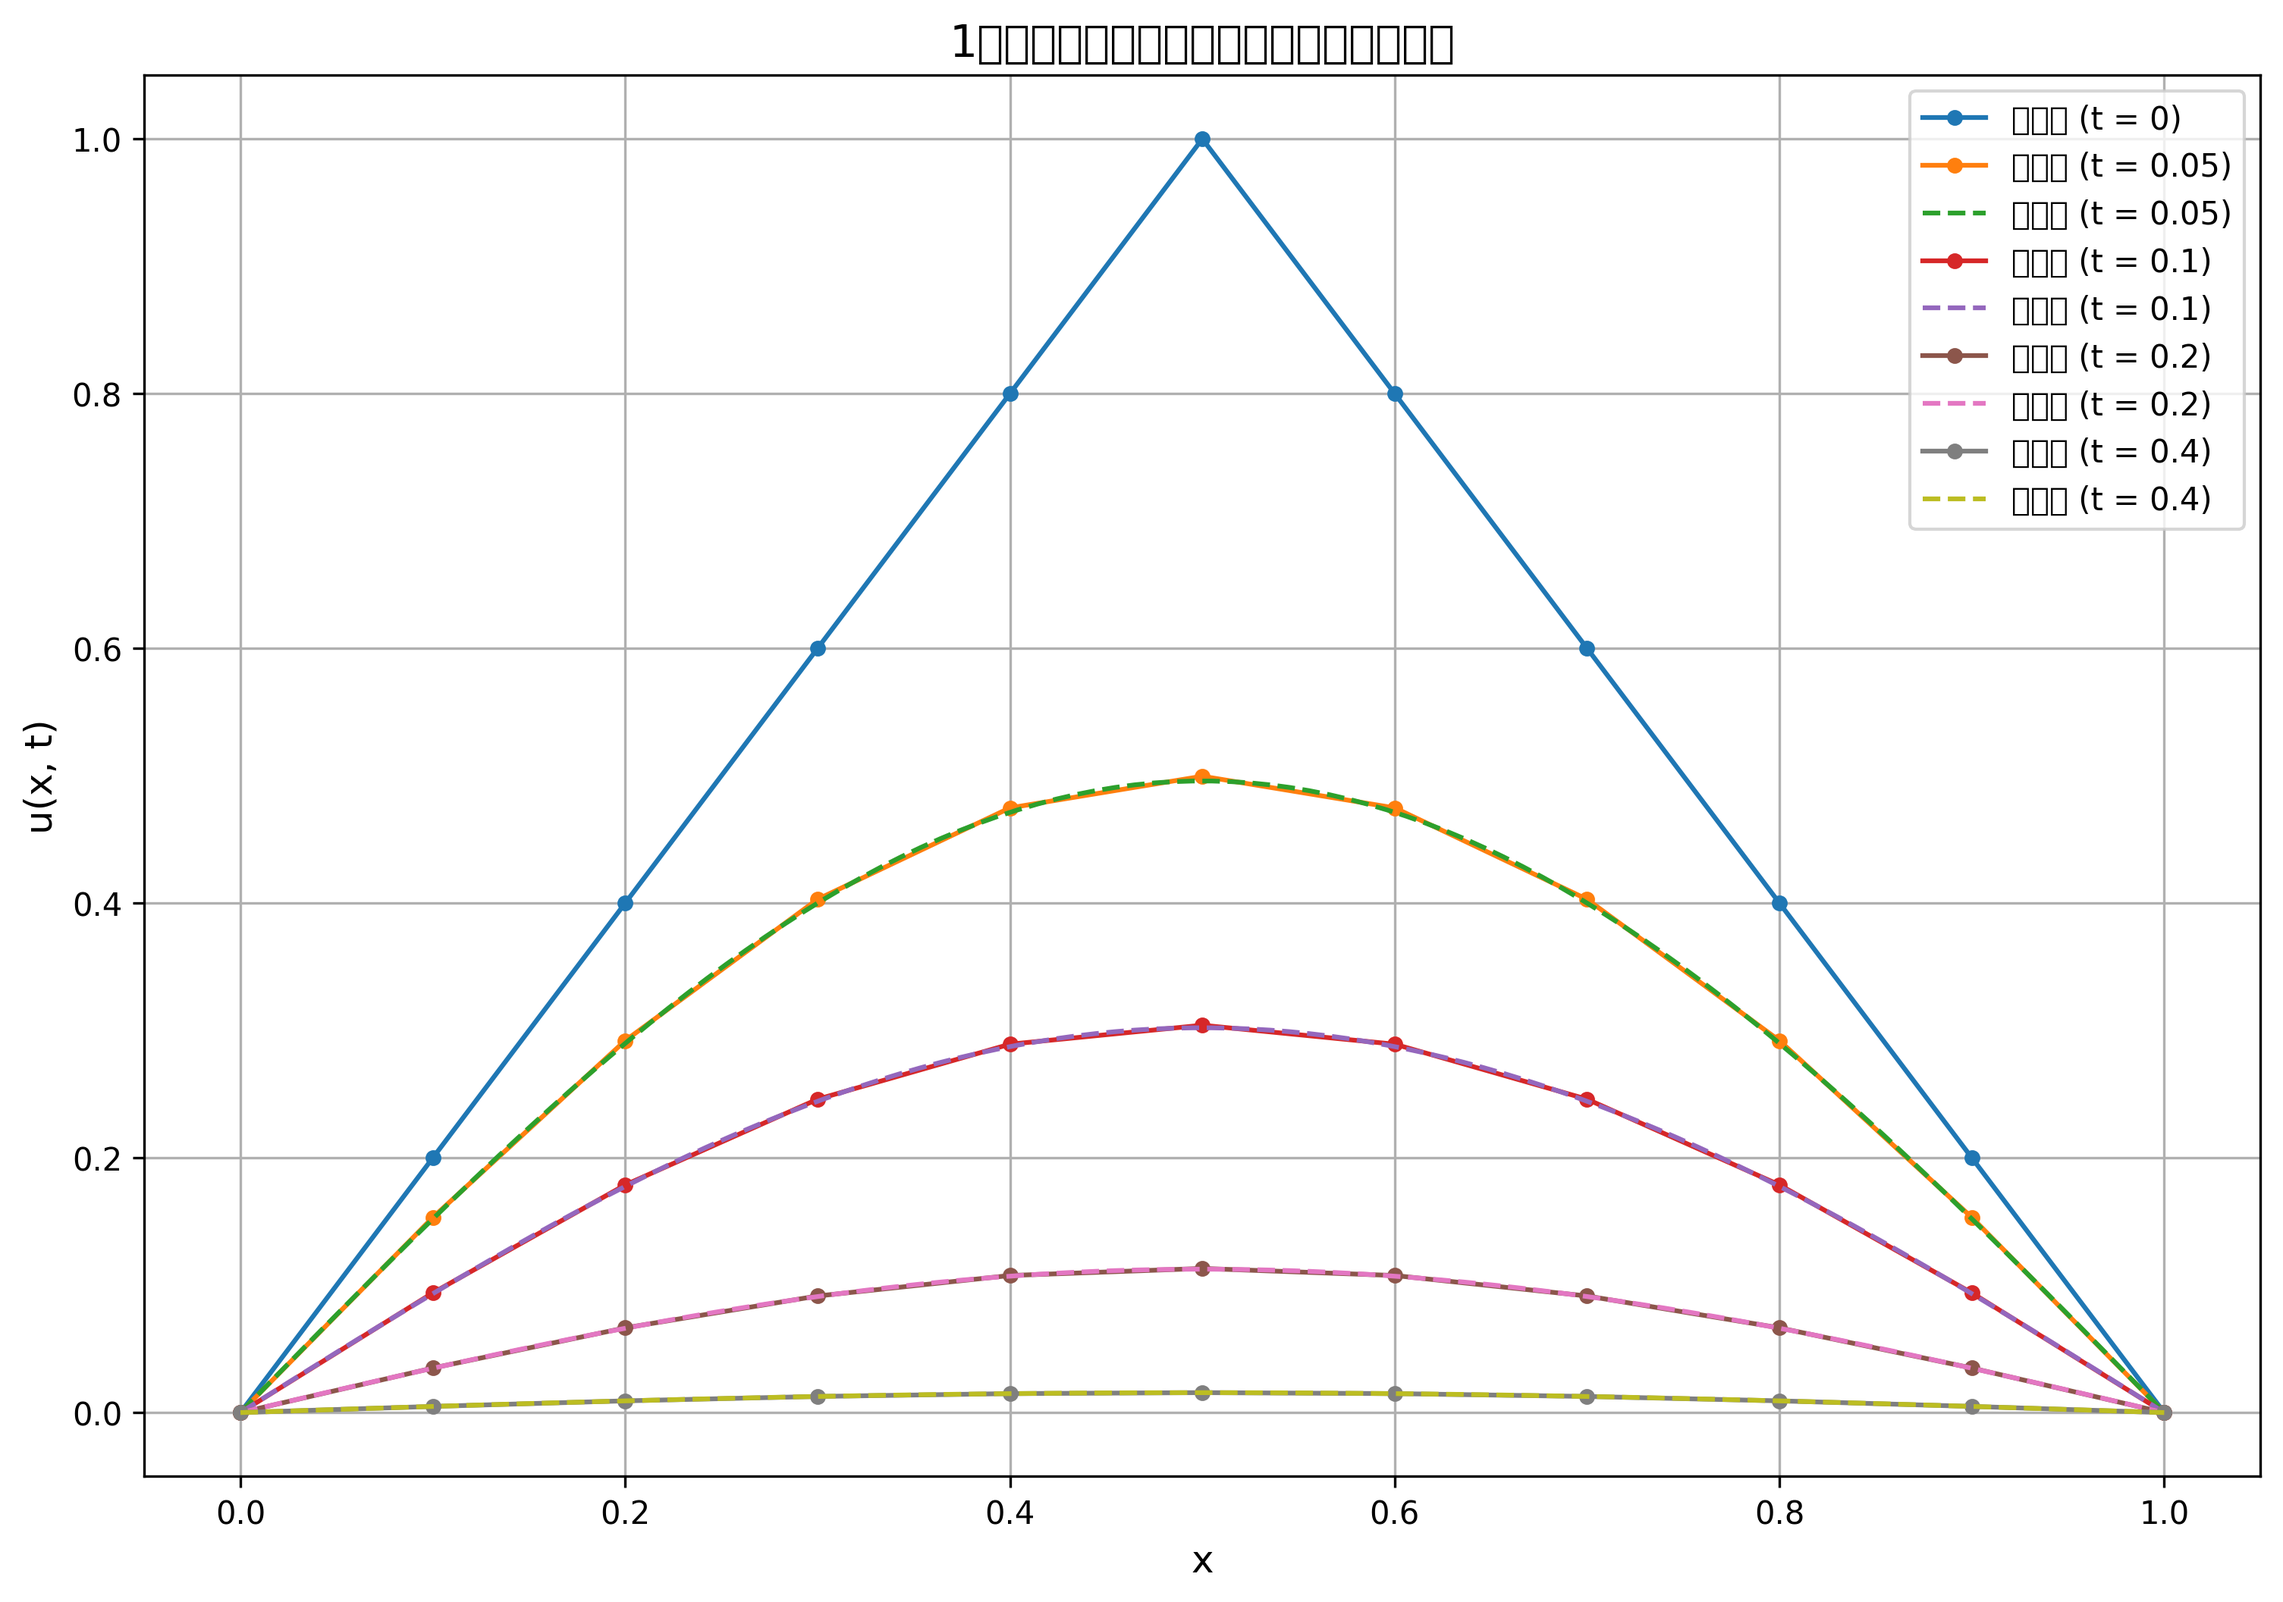
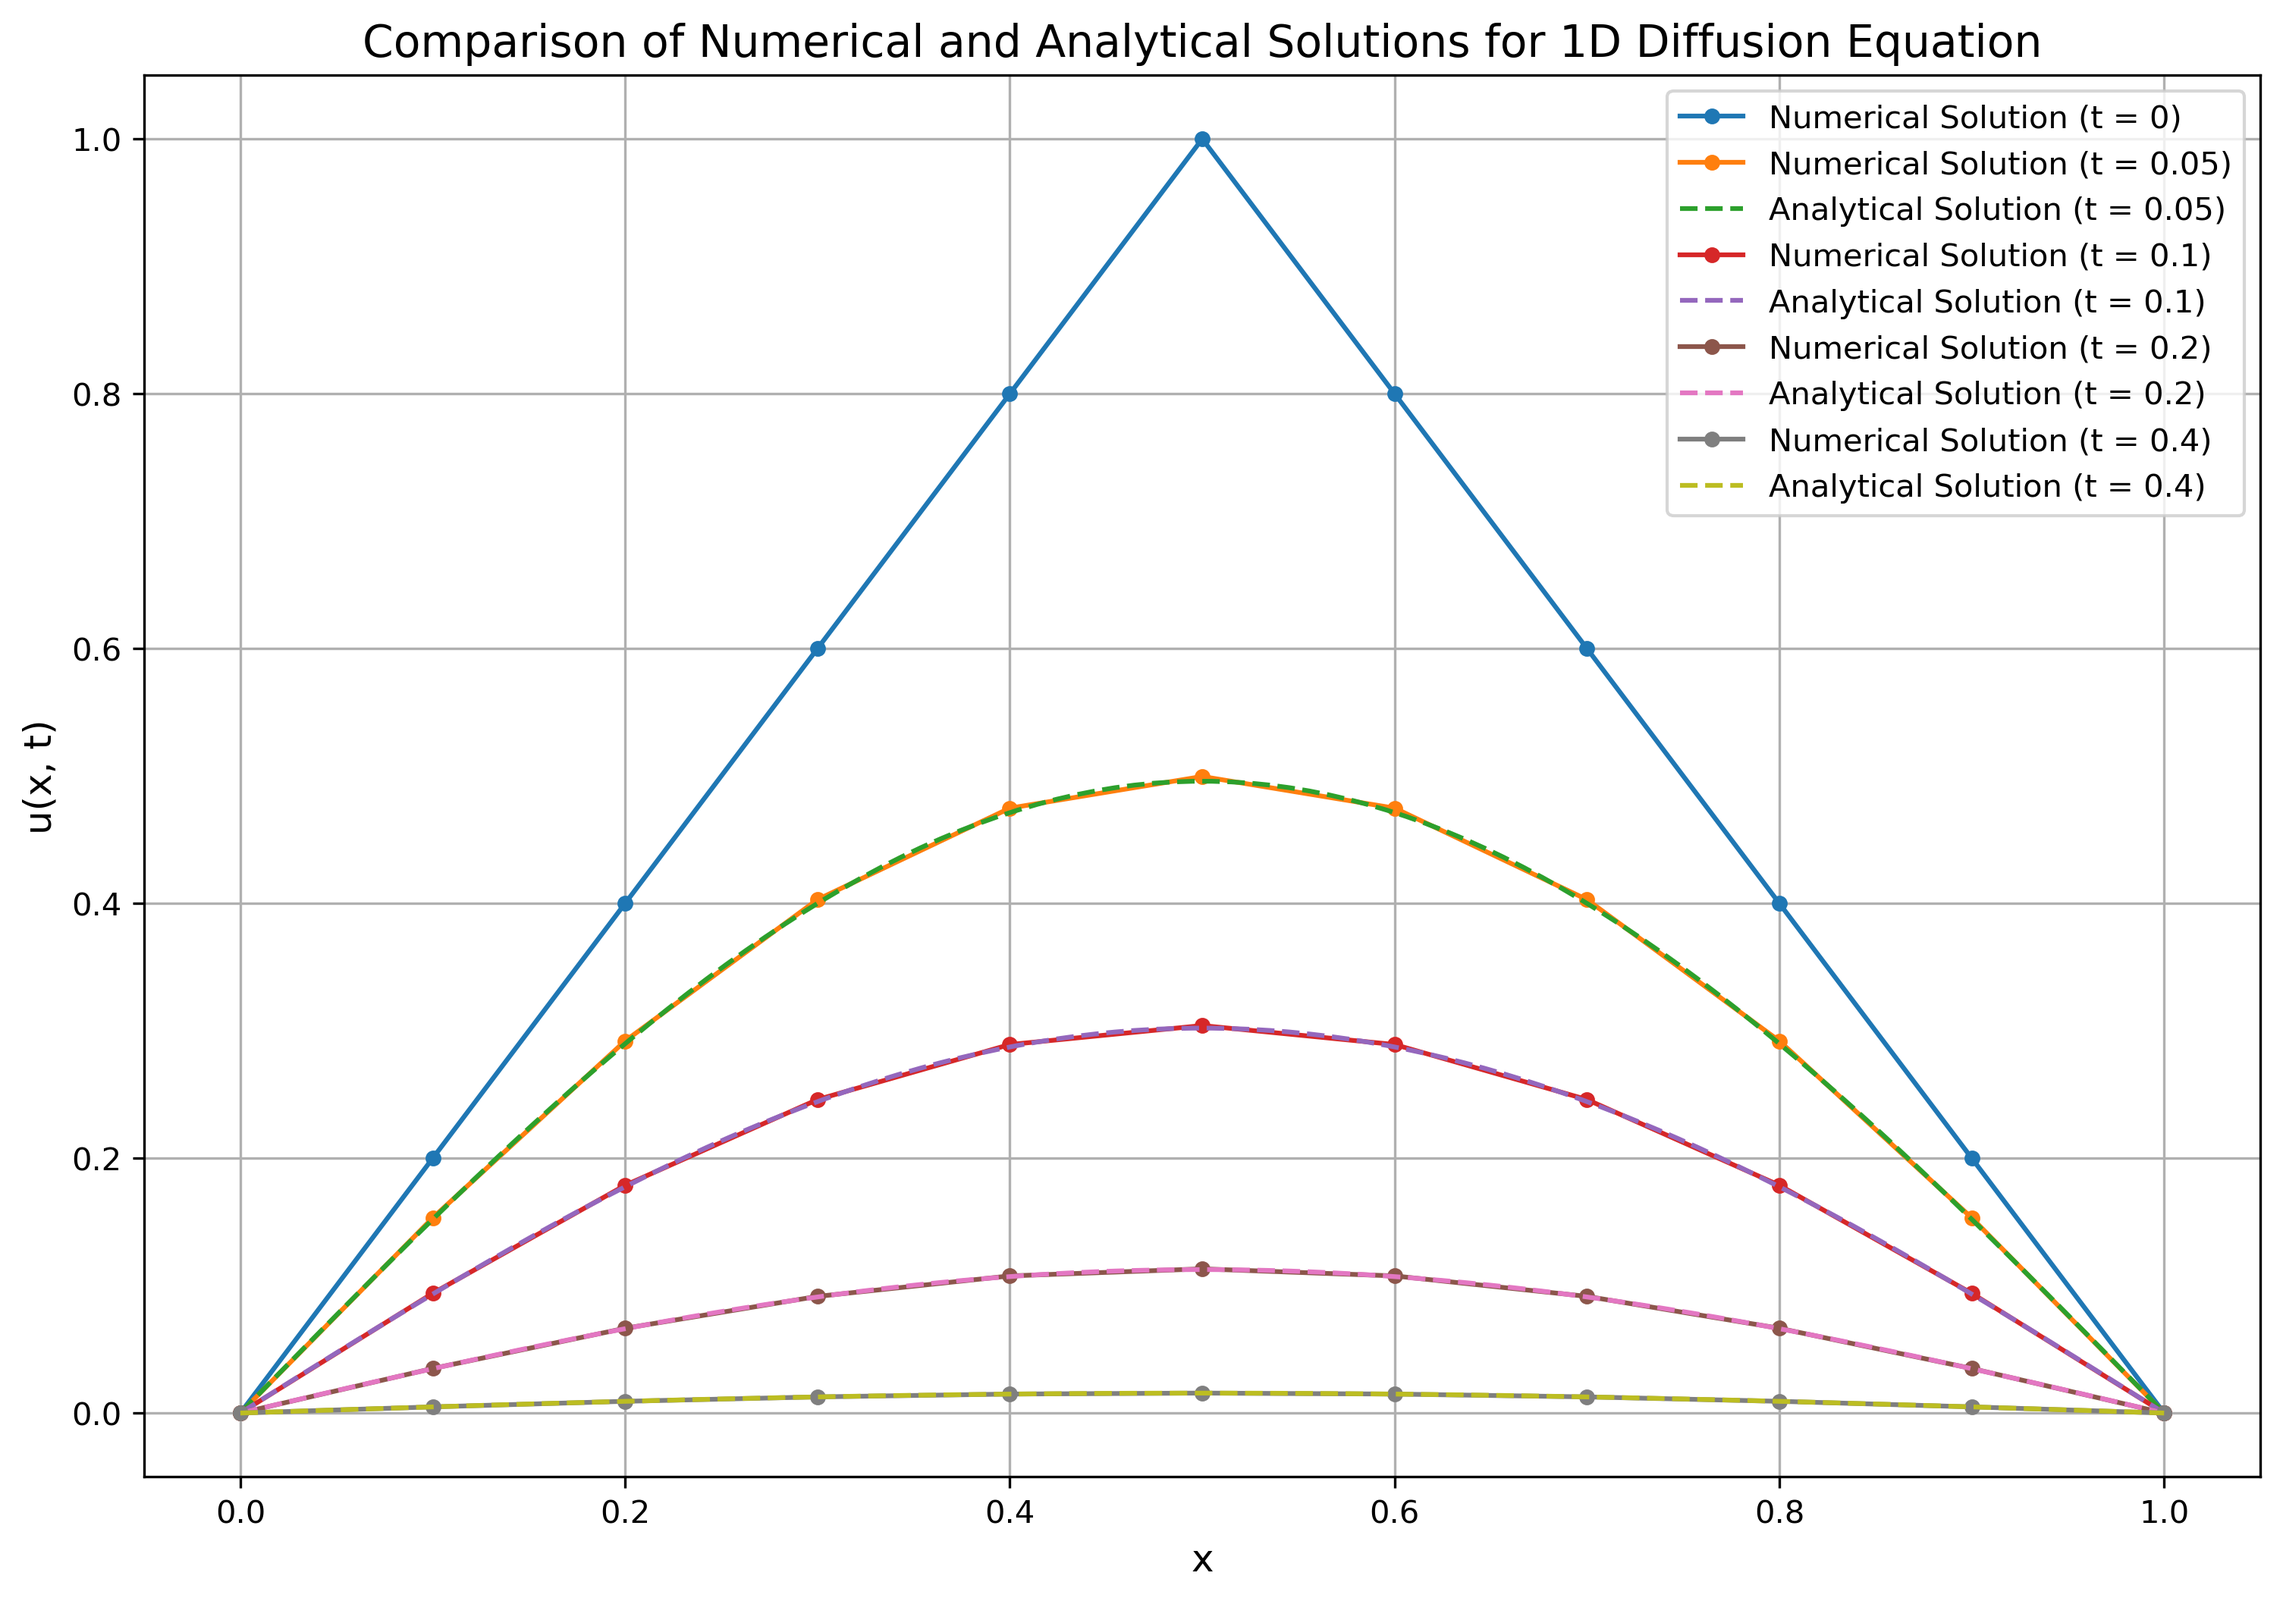
chore

diff --git a/diffusion_equation.py b/diffusion_equation.py
@@ -123,19 +123,19 @@ def plot_results(x, u_history):
     # 各時刻の解をプロット
     for t, u in sorted(u_history.items()):
         # 数値解をプロット
-        plt.plot(x, u, 'o-', label=f'数値解 (t = {t})', markersize=4)
+        plt.plot(x, u, 'o-', label=f'Numerical Solution (t = {t})', markersize=4)
         
         # 解析解をプロット（t = 0 以外）
         if t > 0:
             # より細かい格子で解析解を計算
             x_fine = np.linspace(0, 1, 100)
             u_analytical = analytical_solution(x_fine, t)
-            plt.plot(x_fine, u_analytical, '--', label=f'理論解 (t = {t})')
+            plt.plot(x_fine, u_analytical, '--', label=f'Analytical Solution (t = {t})')
     
     # グラフの設定
     plt.xlabel('x', fontsize=12)
     plt.ylabel('u(x, t)', fontsize=12)
-    plt.title('1次元拡散方程式の数値解と理論解の比較', fontsize=14)
+    plt.title('Comparison of Numerical and Analytical Solutions for 1D Diffusion Equation', fontsize=14)
     plt.legend(fontsize=10)
     plt.grid(True)
     
